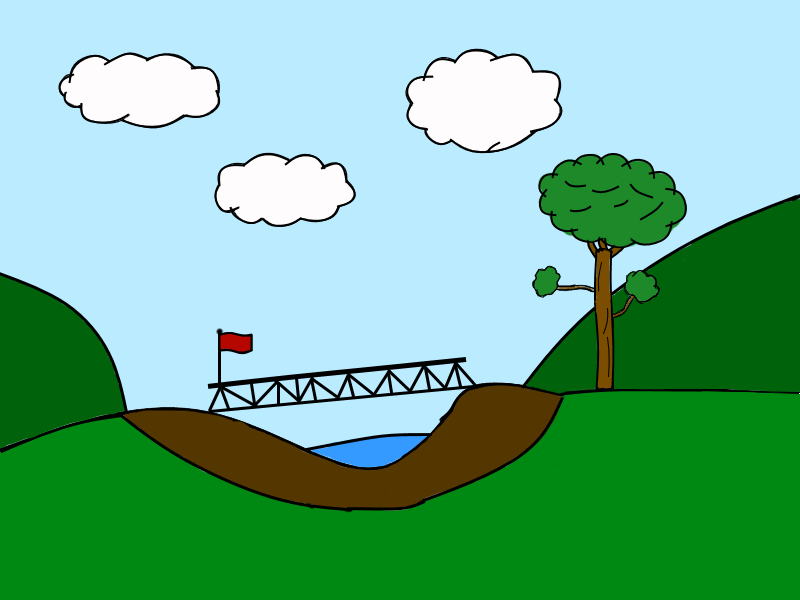
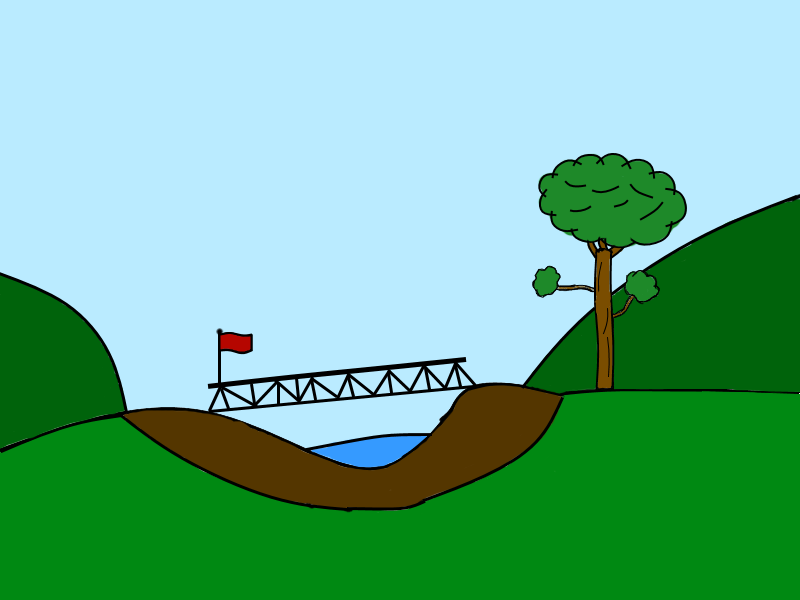
gamestageben felhőzés

Changed region(s): [[0.5, 0.06, 0.7188, 0.27], [0.25, 0.24, 0.4688, 0.39], [0.0625, 0.09, 0.2812, 0.21]]

diff --git a/core/src/com/mygdx/game/GameStage.java b/core/src/com/mygdx/game/GameStage.java
@@ -9,9 +9,11 @@ import com.badlogic.gdx.utils.viewport.ExtendViewport;
 import com.mygdx.game.GlobalClasses.Assets;
 import com.mygdx.game.MyBaseClasses.*;
 import com.mygdx.game.MyBaseClasses.Game.MyGame;
+import com.mygdx.game.MyBaseClasses.Scene2D.CloudActor;
 import com.mygdx.game.MyBaseClasses.Scene2D.MyActor;
 import com.mygdx.game.MyBaseClasses.Scene2D.MyStage;
 import com.mygdx.game.MyBaseClasses.Scene2D.OneSpriteStaticActor;
+import com.mygdx.game.UI.MyButton;
 
 import java.util.Random;
 
@@ -38,6 +40,7 @@ public class GameStage extends MyStage {
     RavenActor ravenActor;
     HPActorFekete hpActorFekete;
     HPActorPiros hpActorPiros;
+    CloudActor cloudActor;
     MyActor actor;
     float offsetX = 0.23f;
     float offsetY = 5.8f;
@@ -96,7 +99,7 @@ public class GameStage extends MyStage {
 
     public void addRaven(long ido, boolean canSpawnNewRaven){
         //System.out.println(System.currentTimeMillis()+" "+ido + " " + (System.currentTimeMillis()-ido) + " " + canSpawnNewRaven);
-        if(System.currentTimeMillis() - ido > 5000 && canSpawnNewRaven) {
+        if(System.currentTimeMillis() - ido > 1000 && canSpawnNewRaven) {
             addActor(ravenActor=new RavenActor(10, (float)(new Random().nextInt(2)+5+new Random().nextDouble()), lagrange, 3, level, getGameStage(), varActor));
             VarActor.canSpawnNewRaven = false;
 
@@ -192,6 +195,7 @@ public class GameStage extends MyStage {
         addActor(bg);
         addKatona();
 
+
         addActor(satorActor = new SatorActor(Assets.manager.get(Assets.TENT_TEXTURE)));
         addActor(satorTopActor = new SatorTopActor(Assets.manager.get(Assets.TENT_TOP_TEXTURE)));
         addActor(varTopActor = new VarTopActor(Assets.manager.get(Assets.CASTLE_TOP_TEXTURE)));
@@ -271,5 +275,9 @@ public class GameStage extends MyStage {
 
     @Override
     public void init() {
+        addActor(cloudActor = new CloudActor(0,getHeight()-Assets.manager.get(Assets.CLOUD_TEXTURE).getHeight()-120 ,170f*1.3f, 100f*1.3f,Assets.manager.get(Assets.CLOUD_TEXTURE)));
+        addActor(cloudActor = new CloudActor(getWidth()-Assets.manager.get(Assets.CLOUD_TEXTURE).getWidth(), 0, 170f*1.3f , 100f*1.3f , Assets.manager.get(Assets.CLOUD_TEXTURE)));
+        //addActor(cloudActor = new CloudActor(0, , 170f*1.3f , 100f*1.3f,Assets.manager.get(Assets.CLOUD_TEXTURE)));
+        //addActor(cloudActor = new CloudActor(getWidth()-Assets.manager.get(Assets.CLOUD_TEXTURE).getWidth(), getHeight()-910,170f*1.3f, 100f*1.3f,Assets.manager.get(Assets.CLOUD_TEXTURE)));
     }
 }

diff --git a/core/src/com/mygdx/game/Menu/MainMenuStage.java b/core/src/com/mygdx/game/Menu/MainMenuStage.java
@@ -32,11 +32,12 @@ public class MainMenuStage extends MyStage {
     @Override
     public void init() {
 
-        addActor(cloudActor = new CloudActor(0, getHeight()-Assets.manager.get(Assets.CLOUD_TEXTURE).getHeight()-120,Assets.manager.get(Assets.CLOUD_TEXTURE)));
-        addActor(cloudActor = new CloudActor(getWidth()-Assets.manager.get(Assets.CLOUD_TEXTURE).getWidth(), getHeight()-460,Assets.manager.get(Assets.CLOUD_TEXTURE)));
-        addActor(cloudActor = new CloudActor(0, getHeight()-660,Assets.manager.get(Assets.CLOUD_TEXTURE)));btnStart = new MyButton("", game.btnStart());
-        addActor(cloudActor = new CloudActor(getWidth()-Assets.manager.get(Assets.CLOUD_TEXTURE).getWidth(), getHeight()-910,Assets.manager.get(Assets.CLOUD_TEXTURE)));
+        addActor(cloudActor = new CloudActor(0, getHeight()-Assets.manager.get(Assets.CLOUD_TEXTURE).getHeight()-120,170f*1.3f, 100f*1.3f,Assets.manager.get(Assets.CLOUD_TEXTURE)));
+        addActor(cloudActor = new CloudActor(getWidth()-Assets.manager.get(Assets.CLOUD_TEXTURE).getWidth(), getHeight()-460,170f*1.3f, 100f*1.3f,Assets.manager.get(Assets.CLOUD_TEXTURE)));
+        addActor(cloudActor = new CloudActor(0, getHeight()-660,170f*1.3f, 100f*1.3f,Assets.manager.get(Assets.CLOUD_TEXTURE)));
+        addActor(cloudActor = new CloudActor(getWidth()-Assets.manager.get(Assets.CLOUD_TEXTURE).getWidth(), getHeight()-910,170f*1.3f, 100f*1.3f,Assets.manager.get(Assets.CLOUD_TEXTURE)));
 
+        btnStart = new MyButton("", game.btnStart());
         btnStart.addListener(new ClickListener() {
             @Override
             public void clicked(InputEvent event, float x, float y) {

diff --git a/core/src/com/mygdx/game/GlobalClasses/Assets.java b/core/src/com/mygdx/game/GlobalClasses/Assets.java
@@ -78,7 +78,7 @@ public class Assets {
 
 	//Egyéb cuccok
 	public static final AssetDescriptor<Texture> BACKGROUND_TEXTURE
-			= new AssetDescriptor<Texture>("hatterek/backgroundShadow.png", Texture.class);
+			= new AssetDescriptor<Texture>("hatterek/background.png", Texture.class);
 
 	public static final AssetDescriptor<Texture> KNOB_TEXTURE
 			= new AssetDescriptor<Texture>("slider/knob.png", Texture.class);

diff --git a/core/src/com/mygdx/game/MyBaseClasses/Scene2D/CloudActor.java b/core/src/com/mygdx/game/MyBaseClasses/Scene2D/CloudActor.java
@@ -13,9 +13,9 @@ public class CloudActor extends OneSpriteStaticActor {
 
     boolean balra = true;
 
-    public CloudActor(float x, float y,Texture texture) {
+    public CloudActor(float x, float y,float a,float b,Texture texture) {
         super(texture);
-        setSize(170f*1.3f, 100f*1.3f);
+        setSize(a, b);
         setPosition(x, y);
     }
 
